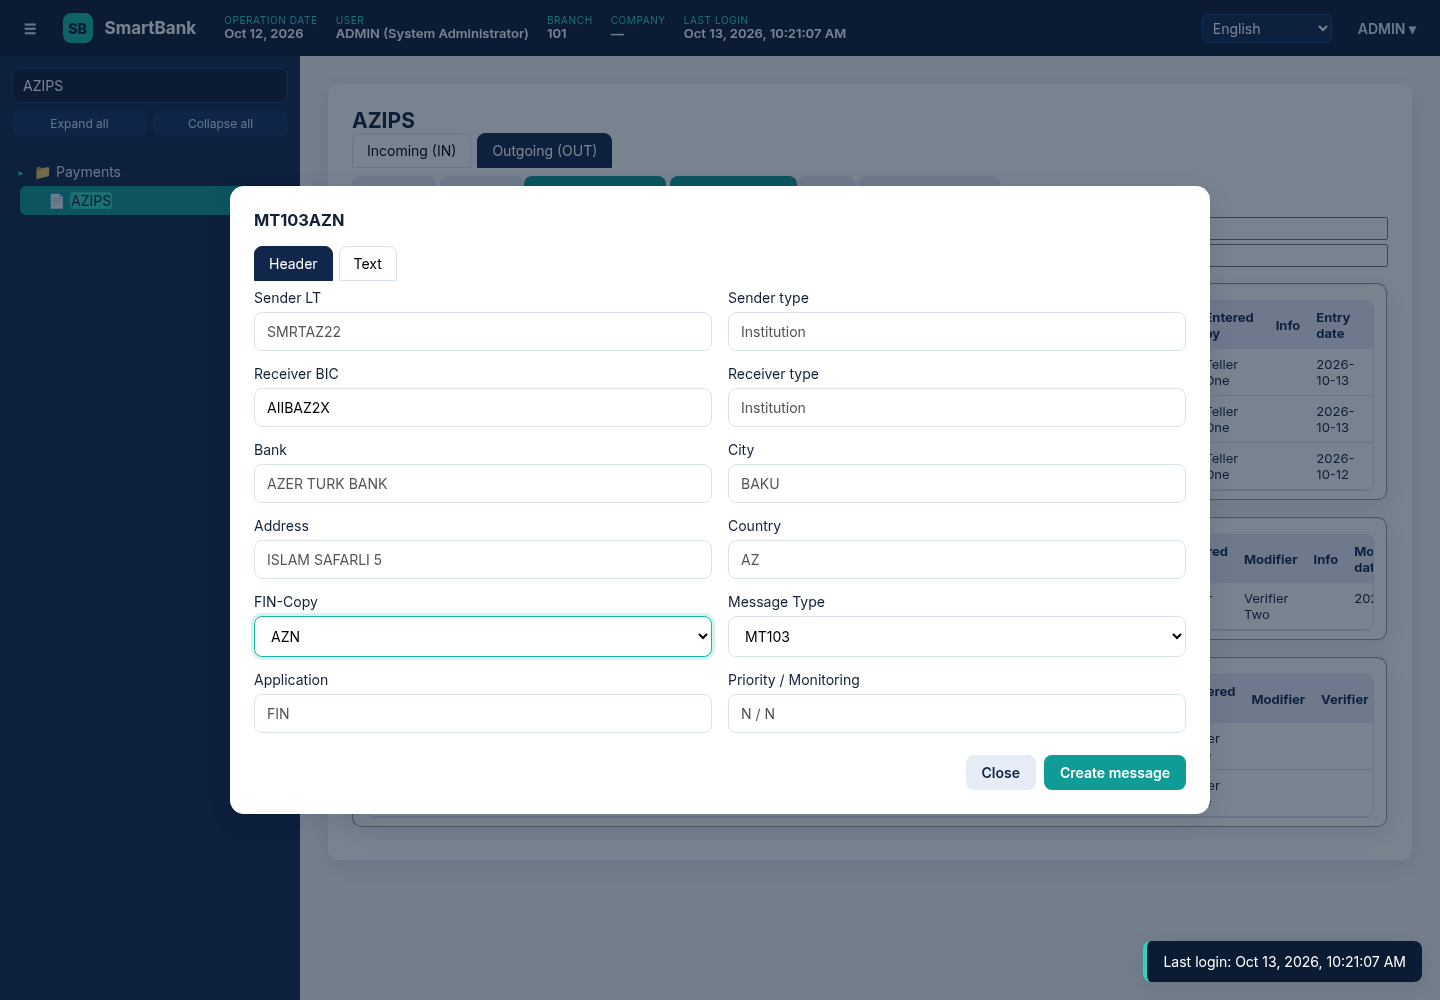
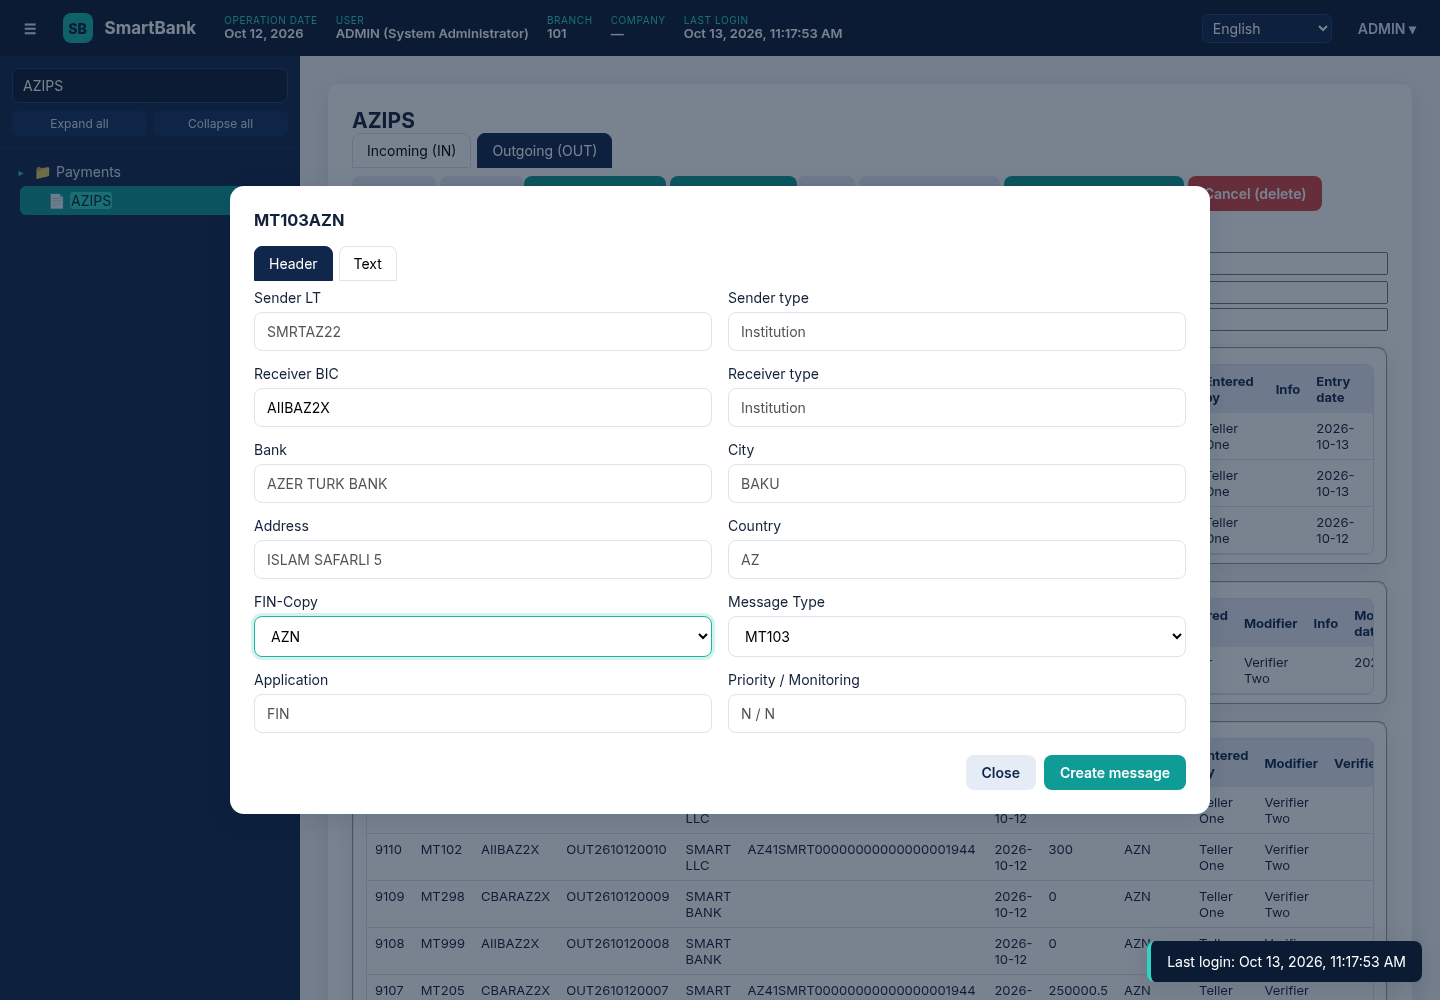
AZIPS: re-run older E2E scripts on the new mock data (fix totals assertion, refreshed screenshots); UFX prod URL/cert placeholders in .env.example

diff --git a/smartbank-web/e2e/azips_screens.py b/smartbank-web/e2e/azips_screens.py
@@ -12,7 +12,7 @@ with sync_playwright() as p:
     pg.fill("#u", "ADMIN"); pg.fill("#p", "Admin#2026"); pg.click("#loginBtn"); pg.wait_for_selector("#tree .node")
     pg.fill("#treeSearch", "AZIPS"); pg.wait_for_timeout(300)
     pg.locator("#tree .node[data-path='9.0']").click(); pg.wait_for_selector("#g_out3 tr[data-i='1']")
-    assert "4200.25 AZN" in pg.input_value("#z_s1")
+    assert "254951.5 AZN" in pg.input_value("#z_s1")      # status-1 rows of the mock (incl. parts 2b/3 rows)
     shot(pg, "101-azips-out.png")
     pg.click(".tabs button[data-tab=in]"); pg.wait_for_selector("#g_in tr[data-i='1']")
     pg.click("#g_in th[data-s=VALU]"); pg.wait_for_timeout(400)
